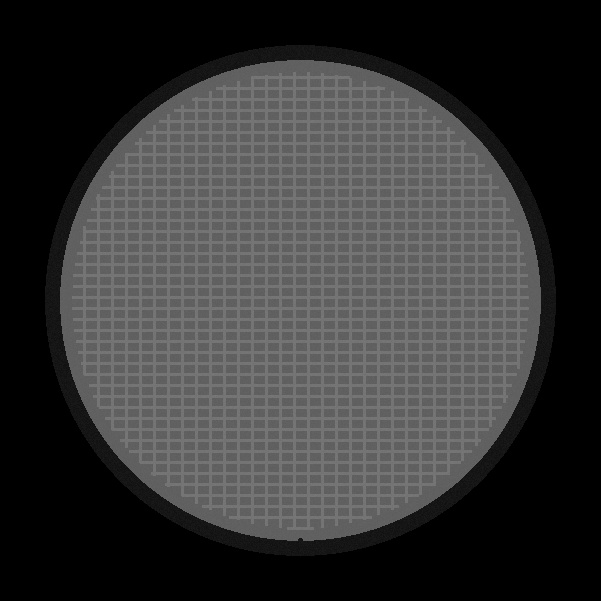
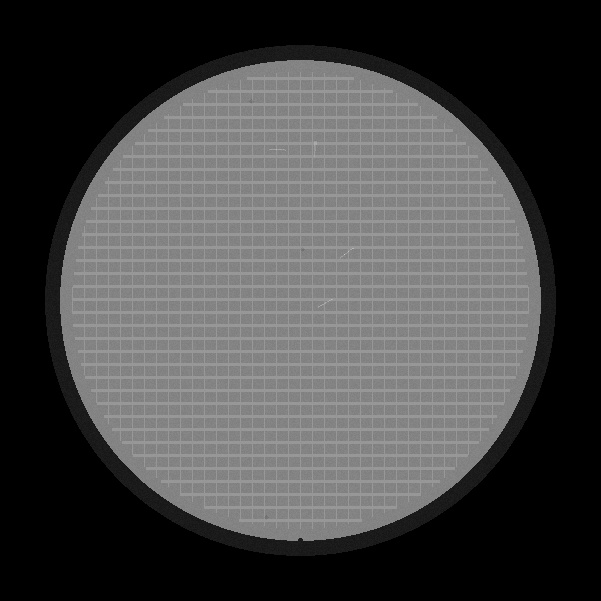
Updated inputs for defects

diff --git a/app.py b/app.py
@@ -17,24 +17,10 @@ spot_defect_name =  'spot'
 cloudy_defect_name = 'cloudy'
 line_defect_name = 'scratch'
 
-set_number_defects = None ##if you want to set how many defects per image
-set_cloudy_radius_x = None ##if you want to set the radius of the cloudy circle/oval
-set_cloudy_radius_y = None ##if you want to set the radius of the cloudy circle/oval
-set_scratch_length = None
-set_scratch_thickness = None
-set_scratch_variance = None
-set_scratch_variance_add = None ##set to 1 to make scratchs darker than base, 2 to make scratchs lighter than base
-set_spot_variance = None
-set_spot_radius = None
-set_spot_variance_add = None ##set to 1 to make spot darker than base, 2 to make scratchs lighter than base
-set_radial_radius = None
-set_radial_variance = None
-set_radial_angle = None
-set_radial_variance_add = None ##set to 1 to make radial darker than base, 2 to make scratchs lighter than base
-
 defect_min = 1
 defect_max = 5
 
+#parameters to generate base image
 chip_low = 70
 chip_high = 200
 stage_low = 20
@@ -51,6 +37,7 @@ wafer_variation_high = 10
 grid_variation_low = 2
 grid_variation_high = 5
 
+#parameters to generate defects
 scratch_length_min = 10
 scratch_length_max = 20
 scratch_thickness_min = 1
@@ -76,6 +63,20 @@ radial_radius_max = 40
 stage_mid_color = random.randint(stage_low, stage_high)
 wafer_mid_color = random.randint(chip_low, chip_high)
 grid_mid_color = (wafer_mid_color - grid_darkness)
+
+scratch_varince_add = random.randint(1, 2)
+scratch_variance = random.randint(scratch_variance_min, scratch_variance_max)
+scratch_length = random.randint(scratch_length_min, scratch_length_max)
+scratch_thickness = random.randint(scratch_thickness_min,scratch_thickness_max)
+
+spot_variance = random.randint(spot_variance_min, spot_variance_max)
+spot_radius = random.randint(spot_radius_min, spot_radius_max)
+spot_variance_add = random.randint(1,2)
+
+radial_radius = random.randint(radial_radius_min, radial_radius_max)
+radial_angle = random.randint(radial_angle_min, radial_angle_max)
+radial_variance = random.randint(radial_variance_min, radial_variance_max,)
+radial_variance_add = random.randint(1,2)
 
 
 # Insert containers separated into tabs:
@@ -111,8 +112,6 @@ with tab1:
     
     st.header("Proceed to next tab to enter defects")
 
-if st.button('Next'):    
-    tab2
     
 with tab2:
     st.write("Please Enter Defects")
@@ -152,7 +151,33 @@ if submit_button1:
         scribe_y = set_scribe_y,
     )
     
-    save_base(gr , "base_img/baseimg.jpg")
+    gr.create_img()
+    
+    if rndSp:
+        spot = random.randint(defect_min, defect_max)
+
+    for i in range(spot): 
+        gr.GenerateSpotDefects(spot_defect_name, min_box_size, spot_variance, spot_radius, spot_variance_add)
+    
+    if rndSc:
+        scratch = random.randint(defect_min, defect_max)
+    
+    for i in range(scratch):
+        gr.GenerateScratch(line_defect_name, min_box_size, scratch_varince_add, scratch_variance, scratch_length, scratch_thickness)
+    
+    if rndCl:
+        cloudy = random.randint(defect_min, defect_max)
+    
+    for i in range (cloudy):
+        gr.Cloudy_defect(cloudy_radius_min , cloudy_radius_max, set_pitch_x, set_pitch_y, min_box_size, cloudy_defect_name, cloudy_blurriness)
+    
+    if rndRd:
+        radial = random.randint(defect_min, defect_max)
+    
+    for i in range(radial):
+        gr.GenerateRadial(radial_defect_name, min_box_size, radial_radius, radial_angle, radial_variance, radial_variance_add)
+    
+    gr.save_img(filename="base_img/baseimg.jpg")
     
 
 
@@ -164,7 +189,7 @@ with col1:
     
     if submit_button1: 
         with st.spinner(text='In progress'):
-            time.sleep(3)
+            time.sleep(5)
             
     if os.path.exists(base_image):
         st.image(base_image)
